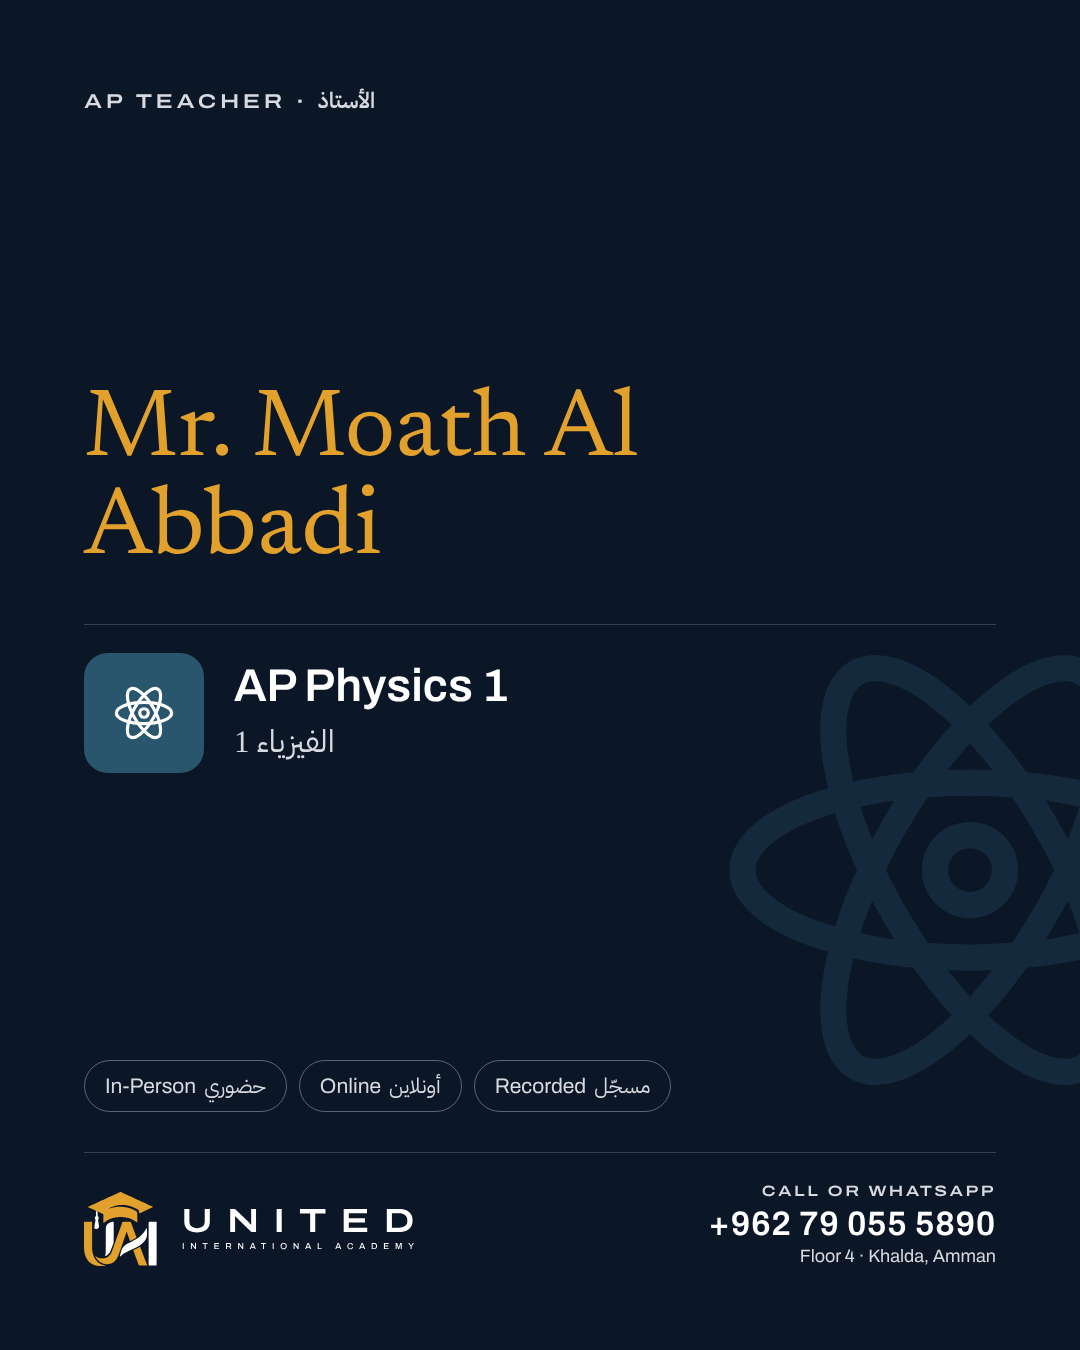
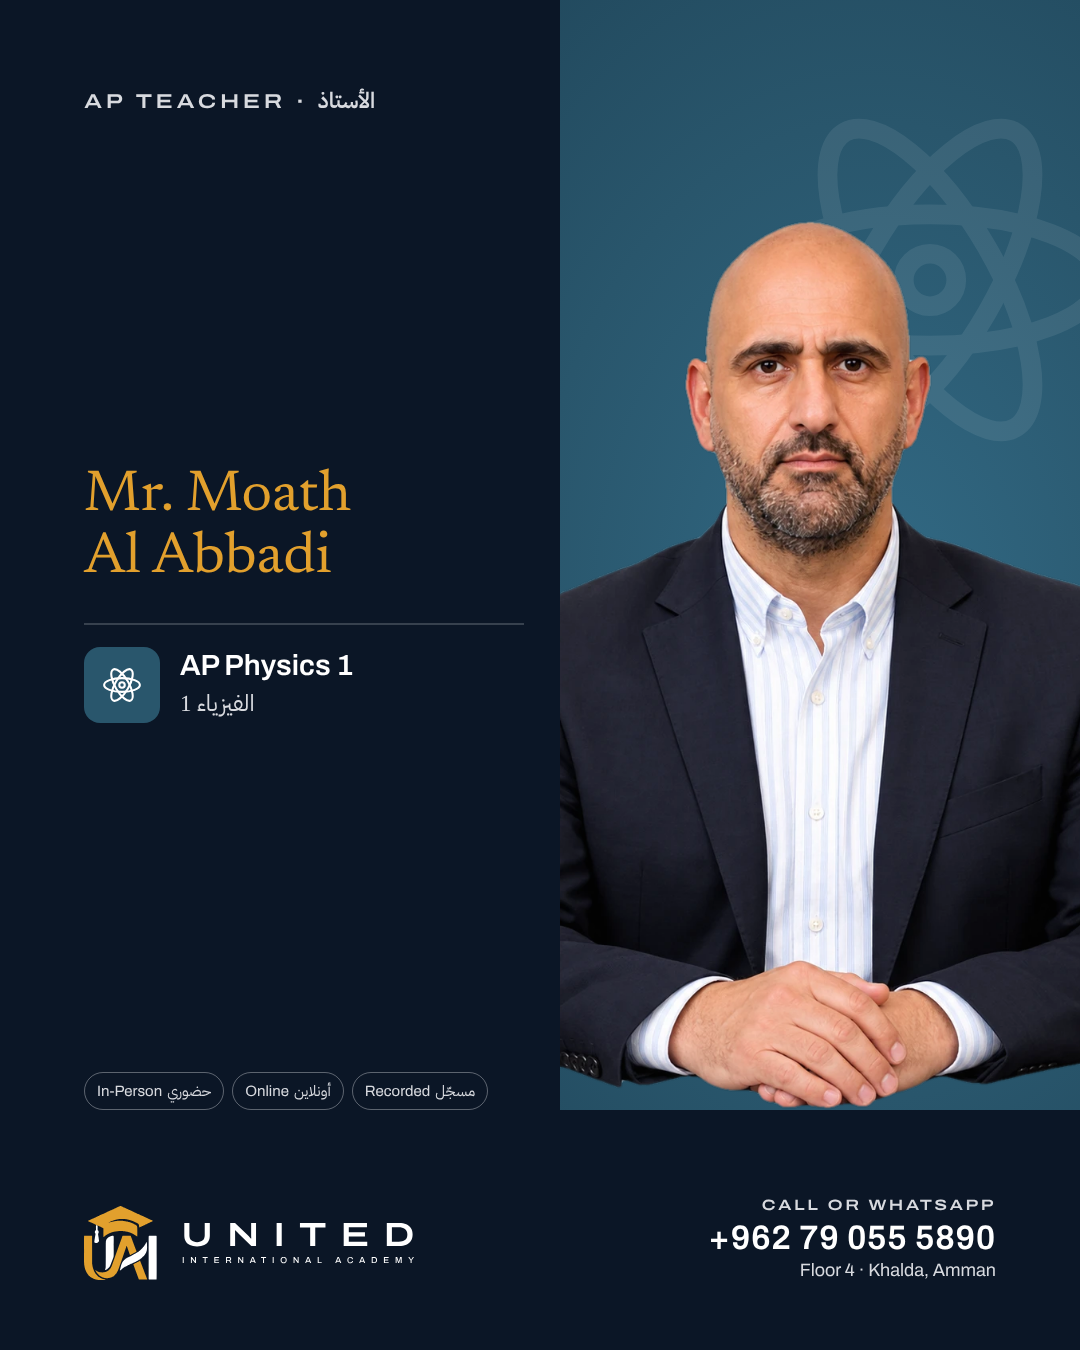
Lens: AP campaign with teacher photos (cut-outs, photo layout, updated QC + package)
Claude-Session: https://claude.ai/code/session_013Nk38vjPosMKdibboCdVbm

diff --git a/Company/01_Tools/brand_assets/ap_campaign.js b/Company/01_Tools/brand_assets/ap_campaign.js
@@ -1,7 +1,7 @@
 // AP teacher campaign: one 1080x1350 post per teacher (all their AP subjects combined) + a campaign intro post.
 // Source of truth: the academy's own Instagram AP posts (19 Sep and 6 Oct 2026, read via Metricool) and the
 // 9 Oct AP schedule. No dates, times, prices or result claims by design.
-// Optional real photos: put <teacher-id>.jpg in 03_Assets/Posts/2026-10_AP_campaign/photos/ and re-run.
+// Teacher photos: originals in photos/originals → photos/make_cutouts.py → photos/cutouts/<teacher-id>.png.
 // Usage: NODE_PATH=$(npm root -g) node ap_campaign.js
 const { chromium } = require('playwright');
 const fs = require('fs');
@@ -10,7 +10,7 @@ const path = require('path');
 
 const BRAND = path.resolve(__dirname, '../../03_Assets/Brand');
 const OUT = path.resolve(__dirname, '../../03_Assets/Posts/2026-10_AP_campaign');
-const PHOTOS = path.join(OUT, 'photos');
+const PHOTOS = path.join(OUT, 'photos', 'cutouts'); // made by photos/make_cutouts.py
 const svg = (f) => fs.readFileSync(path.join(BRAND, 'Logo/SVG', f), 'utf8').replace(/<title>.*?<\/title>/, '');
 const LOGO_H = svg('uia-logo-horizontal-reversed.svg');
 
@@ -111,6 +111,41 @@ const teacherPage = (t, photo) => {
   ${modes}${foot}</div>`;
 };
 
+
+// Photo layout: name + subjects on the left, the teacher on an Academy Blue panel on the right.
+const PHOTO_CSS = `
+.panel{position:absolute;left:560px;right:0;top:0;height:1110px;background:radial-gradient(120% 80% at 60% 55%,#326a85 0%,#29566C 55%,#1f4559 100%);overflow:hidden}
+.panel .pbg{position:absolute;right:-60px;top:70px;width:420px;height:420px;color:#fff;opacity:.08}
+.panel .pbg svg{width:100%;height:100%}
+.person{position:absolute;left:560px;right:0;top:220px;height:890px;overflow:hidden} /* same framing for every teacher: fill the panel, head at the same height */
+.person img{width:100%;height:100%;object-fit:cover;object-position:top center;display:block}
+.lcol{position:absolute;left:84px;width:440px;top:84px;height:1026px;display:flex;flex-direction:column}
+.lcol .name{font-size:58px;line-height:1.06;margin-top:18px;text-wrap:balance}
+.lcol .hair{margin:34px 0 4px}
+.lcol .subj{gap:20px;padding:18px 0}
+.lcol .tile{width:76px;height:76px;border-radius:16px}.lcol .tile svg{width:44px;height:44px}
+.lcol .en{font-size:29px;line-height:1.15}
+.lcol .arsub{font-size:23px;margin-top:4px}
+.lcol .modes{margin-top:auto;gap:8px}
+.lcol .chip{font-size:15px;padding:7px 12px}
+.lcol .chip .ar{margin-left:5px}
+.pfoot{position:absolute;left:84px;right:84px;bottom:70px;display:flex;justify-content:space-between;align-items:flex-end}
+`;
+const photoPage = (t, photo) => `<style>${PHOTO_CSS}</style>
+  <div class="panel"><div class="pbg">${icon(t.subjects[0])}</div></div>
+  <div class="person"><img src="file://${photo}"></div>
+  <div class="lcol">
+    <div class="label">AP teacher · <span class="ar">${t.ar}</span></div>
+    <div style="flex:1;display:flex;flex-direction:column;justify-content:center">
+      <div class="name">${t.name}</div>
+      <div class="hair"></div>
+      ${t.subjects.map((k) => `<div class="subj"><div class="tile">${icon(k)}</div><div><div class="en">${SUBJECT[k][0]}</div><div class="arsub">${SUBJECT[k][1]}</div></div></div>`).join('')}
+    </div>
+    ${modes}
+  </div>
+  <div class="pfoot"><div class="logo">${LOGO_H}</div>
+    <div class="contact"><div class="l">Call or WhatsApp</div><div class="n">+962 79 055 5890</div><div class="loc">Floor 4 · Khalda, Amman</div></div></div>`;
+
 const introPage = () => {
   const all = TEACHERS.flatMap((t) => t.subjects);
   return `<div class="pad">
@@ -132,12 +167,12 @@ const introPage = () => {
   const b = await chromium.launch();
   const p = await b.newPage({ viewport: { width: 1080, height: 1350 } });
   const jobs = [['00_AP-campaign-intro', introPage()],
-    ...TEACHERS.map((t) => { const ph = path.join(PHOTOS, t.id + '.jpg'); return [t.id, teacherPage(t, fs.existsSync(ph) ? ph : null)]; })];
+    ...TEACHERS.map((t) => { const ph = path.join(PHOTOS, t.id + '.png'); return [t.id, fs.existsSync(ph) ? photoPage(t, ph) : teacherPage(t, null)]; })];
   for (const [id, body] of jobs) {
     fs.writeFileSync(path.join(tmp, 'p.html'), `<!doctype html><html><head><meta charset="utf-8"><style>${CSS}</style></head><body>${body}</body></html>`);
     await p.goto('file://' + path.join(tmp, 'p.html'));
     await p.evaluate(() => document.fonts.ready);
-    const over = await p.evaluate(() => { const e = document.querySelector('.pad'); return e.scrollHeight - e.clientHeight; });
+    const over = await p.evaluate(() => { const e = document.querySelector('.pad') || document.querySelector('.lcol'); return e.scrollHeight - e.clientHeight; });
     if (over > 0) console.warn(`${id}: overflows by ${over}px`);
     await p.screenshot({ path: path.join(outDir, `UIA_AP_${id}_1080x1350.png`) });
   }

diff --git a/Company/03_Assets/Posts/2026-10_AP_campaign/photos/make_cutouts.py b/Company/03_Assets/Posts/2026-10_AP_campaign/photos/make_cutouts.py
@@ -1,0 +1,31 @@
+"""Cut teachers out of their photo backgrounds (local rembg model, nothing uploaded) and trim to the person.
+Mild clean-up only: auto-level, slight sharpening for the low-quality scan (04). No face retouching.
+Usage: python3 make_cutouts.py"""
+import pathlib
+from PIL import Image, ImageFilter, ImageEnhance, ImageOps
+from rembg import remove, new_session
+
+HERE = pathlib.Path(__file__).parent
+session = new_session('isnet-general-use')
+KEEP = {'07': 0.70, '08': 0.40}
+for src in sorted((HERE / 'originals').iterdir()):
+    im = Image.open(src)
+    if im.mode in ('RGBA', 'LA', 'P'):  # already-cut photos: put them on white first so the model sees a clean background
+        im = im.convert('RGBA'); bg = Image.new('RGBA', im.size, 'white'); bg.alpha_composite(im); im = bg
+    im = im.convert('RGB')
+    if src.stem.startswith('04_'):  # photographed print: lift contrast/clarity a little, reduce noise
+        im = im.filter(ImageFilter.MedianFilter(3))
+        im = ImageOps.autocontrast(im, cutoff=0.5)
+        im = ImageEnhance.Sharpness(im).enhance(1.6)
+        im = ImageEnhance.Color(im).enhance(1.05)
+    cut = remove(im, session=session, post_process_mask=True)
+    # Pull the edge in (removes white fringe from the original backgrounds), then soften it by a hair.
+    a = cut.getchannel('A').point(lambda v: 255 if v > 128 else 0)
+    a = a.filter(ImageFilter.MinFilter(7)).filter(ImageFilter.MaxFilter(7))  # 'opening': removes specks and hairline debris on the edge
+    a = a.filter(ImageFilter.MinFilter(3)).filter(ImageFilter.GaussianBlur(1.0))
+    cut.putalpha(a)
+    cut = cut.crop(cut.getbbox())
+    keep = KEEP.get(src.stem[:2], 1.0)  # full-length photos: keep head-to-waist so all posts are framed alike
+    cut = cut.crop((0, 0, cut.width, int(cut.height * keep)))
+    cut.save(HERE / 'cutouts' / (src.stem + '.png'))
+    print(src.stem, cut.size)

diff --git a/Company/03_Assets/Posts/2026-10_AP_campaign/build_package.py b/Company/03_Assets/Posts/2026-10_AP_campaign/build_package.py
@@ -103,7 +103,7 @@ RULES APPLIED
 
 BEFORE PUBLISHING (see Campaign_Overview/AP_Campaign_Overview.md)
 - Confirm the open points listed there with the academic team.
-- Teacher photos: none were available to us. Send the original photos to add them to the designs.
+- Teacher photos: the originals you supplied, cut out and placed on the brand panel (no retouching). Confirm each teacher is happy with their photo.
 """, encoding='utf-8')
 zp = HERE / 'United_International_Academy_AP_Campaign.zip'
 with zipfile.ZipFile(zp, 'w', zipfile.ZIP_DEFLATED) as z:

diff --git a/Company/03_Assets/Posts/2026-10_AP_campaign/QC_NOTES.md b/Company/03_Assets/Posts/2026-10_AP_campaign/QC_NOTES.md
@@ -21,11 +21,12 @@
 - ✅ Phone in the standard format only. The Hosam Al Khalil posts used a different number (+962 790 704 656); not used, per the one-number rule.
 - ✅ Arabic text checked in each design; delivery modes (In-Person / Online / Recorded) are from the source posts.
 
+**Teacher photos (added 9 Oct):** the 9 originals were supplied by Fahed (in the order of this list). They were cut out with a local background-removal model (nothing uploaded to an outside service), edges cleaned, and placed on the brand panel with the same framing. No faces were retouched or altered. Notes: Mr. Mohammed Al Bakheet's only photo is a phone picture of a print, so it got light contrast/sharpening; Ms. Mina Nasiri's and Ms. Sara Abd El Raheem's were cropped from full/three-quarter length to upper body. Confirm each teacher is happy with their photo before publishing.
+
 **Open points: confirm with the academic team before publishing**
-1. **Teacher photos:** none could be retrieved (the Instagram image server is blocked from our workspace and there are none in Drive). The posts are designed without portraits; no portraits were generated. Send the original photos (with each teacher's OK) and they slot into the design.
-2. **AP Physics:** the 19 Sep post says "AP Physics"; the 6 Oct list says "Physics 1". Used "AP Physics 1".
-3. **AP Computer Science:** posts say "AP Computer Science"; the 9 Oct schedule says "CSP". Used "AP Computer Science Principles".
-4. **Economics:** posts say AP **Micro**economics; the 9 Oct schedule lists AP **Macro**economics. Used Microeconomics (social source). Confirm which runs, and whether Mr. Hosam teaches it.
-5. **AP Biology** has a teacher post (19 Sep) but is missing from the 6 Oct list. Included.
-6. **Running this term?** The 9 Oct schedule has no Physics 1, Environmental Science, English Literature, Human Geography or Business with Personal Finance. Confirm these are still offered before posting those subjects.
-7. **AP Calculus:** AB or BC is not stated anywhere.
+1. **AP Physics:** the 19 Sep post says "AP Physics"; the 6 Oct list says "Physics 1". Used "AP Physics 1".
+2. **AP Computer Science:** posts say "AP Computer Science"; the 9 Oct schedule says "CSP". Used "AP Computer Science Principles".
+3. **Economics:** posts say AP **Micro**economics; the 9 Oct schedule lists AP **Macro**economics. Used Microeconomics (social source). Confirm which runs, and whether Mr. Hosam teaches it.
+4. **AP Biology** has a teacher post (19 Sep) but is missing from the 6 Oct list. Included.
+5. **Running this term?** The 9 Oct schedule has no Physics 1, Environmental Science, English Literature, Human Geography or Business with Personal Finance. Confirm these are still offered before posting those subjects.
+6. **AP Calculus:** AB or BC is not stated anywhere.

diff --git a/Company/00_Activity_Logs/lens.md b/Company/00_Activity_Logs/lens.md
@@ -50,3 +50,4 @@
 - Done (9 Oct, later): one-zip social kit for Fahed (profile/cover, FAQ carousel + same-team post, 6 stories, 5 highlight covers, 2 reels, recap overlays, READ_ME_FIRST.txt with all captions/bios; 37 files, 6.6 MB). Pre-reveal teaser/contest posts excluded (expired). Same-team post caption is a new draft.
 - Done (9 Oct, later): AP weekly schedule post + story (`03_Assets/Posts/2026-10_AP_schedule/`), generator `ap_schedule.js`. Open: AP Calculus AB/BC, start date.
 - Done (9 Oct, later): AP teacher campaign (`03_Assets/Posts/2026-10_AP_campaign/`): researched 45 IG posts via Metricool → 9 teachers / 14 AP subjects; 10 posts (intro + 1 per teacher, multi-subject teachers combined), captions AR+EN, overview, QC notes, zip. Typographic (no teacher photos reachable). 7 open points for the academic team (Micro vs Macro, Physics 1, CSP, Calc AB/BC, which subjects run this term…).
+- Done (9 Oct, later): teacher photos added to the AP campaign (9 originals → local rembg cut-outs, edge clean-up, same framing on a brand panel; Bakheet scan lightly enhanced; Mina/Sara cropped to upper body). New zip delivered.
